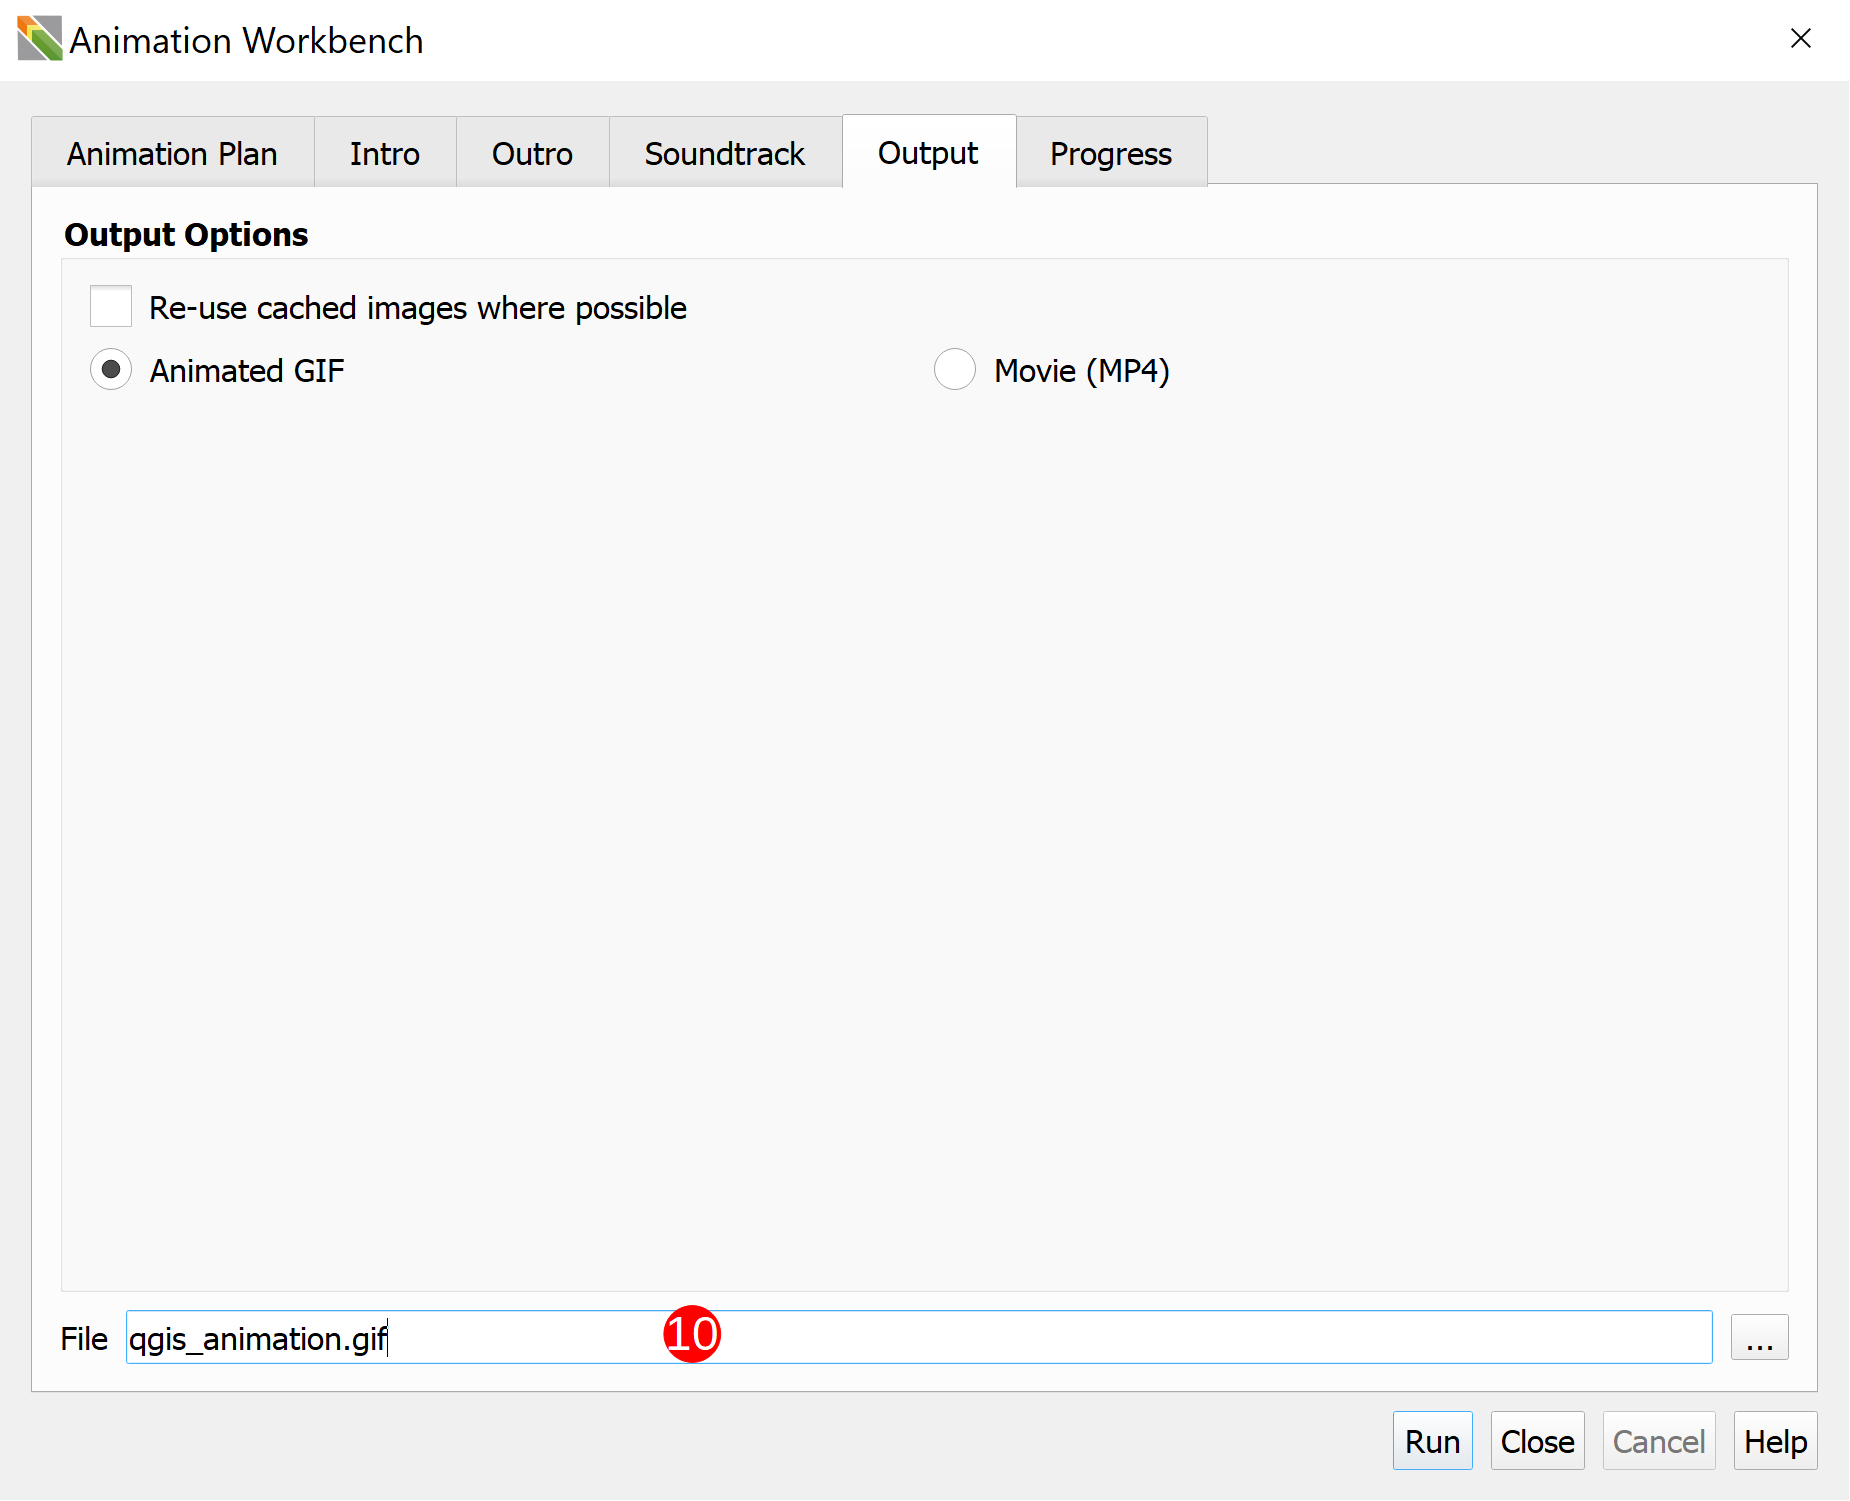
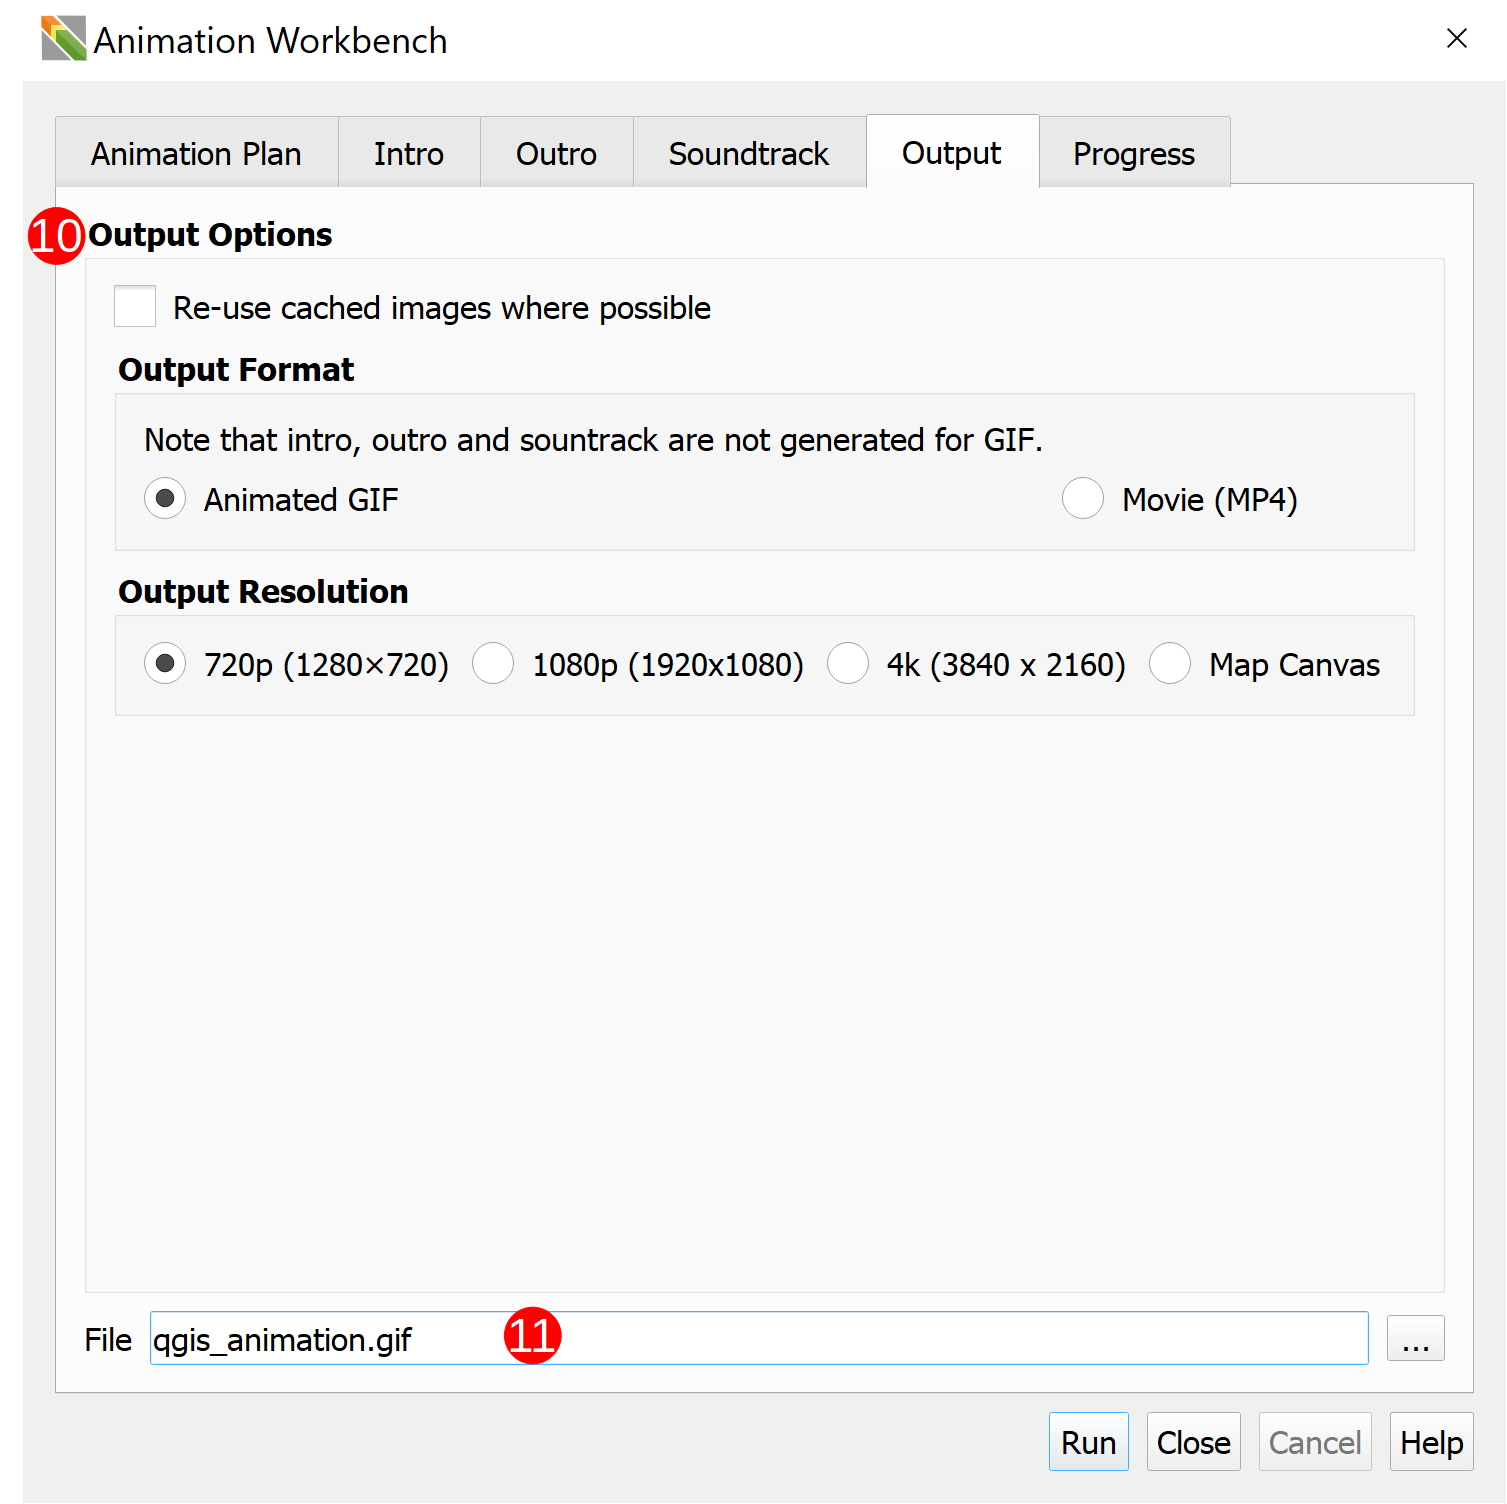
📝 using: output screenshot and added code block

diff --git a/docs/start/using.md b/docs/start/using.md
@@ -67,7 +67,16 @@ In this section, we describe the general workflow for using the Animation Workbe
    example below works with the bird animation from earlier
 
    ![Expression Snippet](img/009_Expression_1.png)
-   &nbsp;<!--Adds blank space for formatting-->
+
+   ```py
+      @project_home
+      ||
+      '/bird/bird_00'
+      || 
+      lpad(to_string(@frame_number % 9), 2, '0')
+      || 
+      '.png'
+   ```
 
 4. Open the Animation Workbench and configure your animation, choosing between the
    different modes and options.
@@ -87,7 +96,7 @@ In this section, we describe the general workflow for using the Animation Workbe
    ![Output Setup](img/011_OutputSetup_1.png)
    &nbsp;<!--Adds blank space for formatting-->
 
-   Select a location for your output (**`10`**).
+   Set your desired `Output Options` (**`10`**) Select a location for your output (**`11`**).
 
    ![Output Location](img/012_Output_1.png)
    &nbsp;<!--Adds blank space for formatting-->
